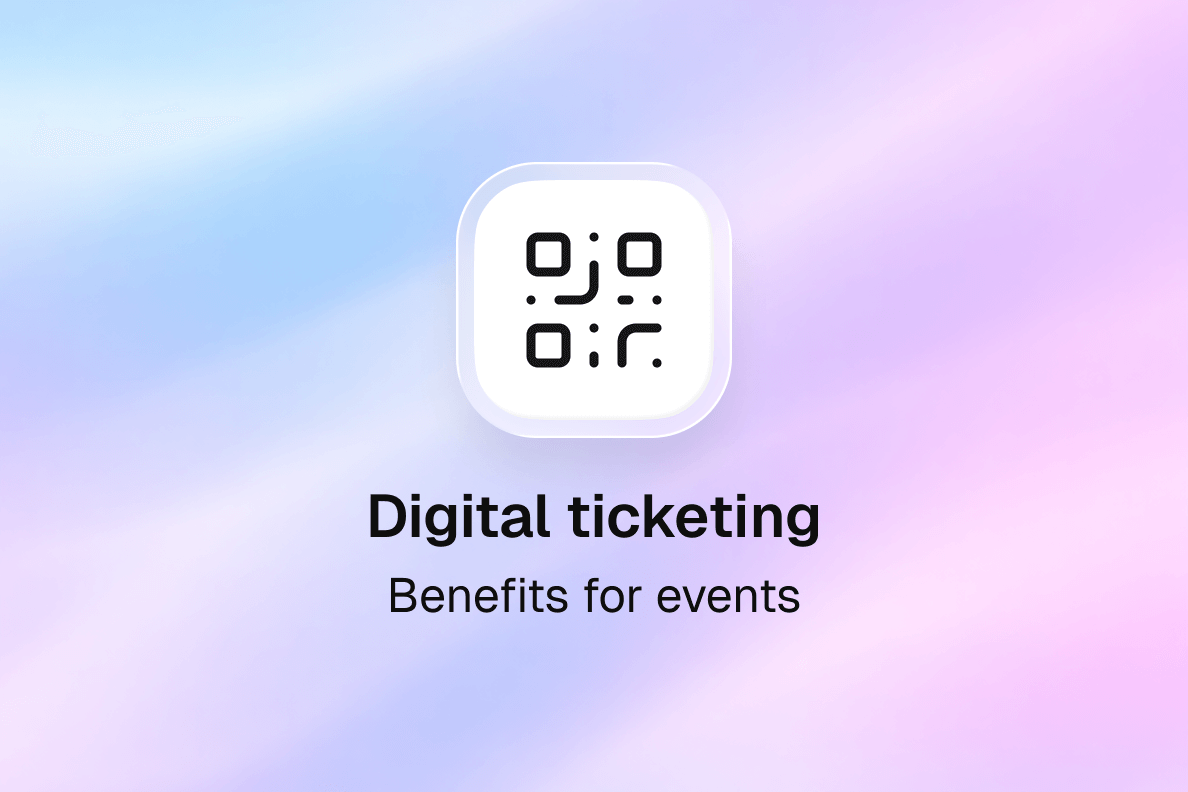
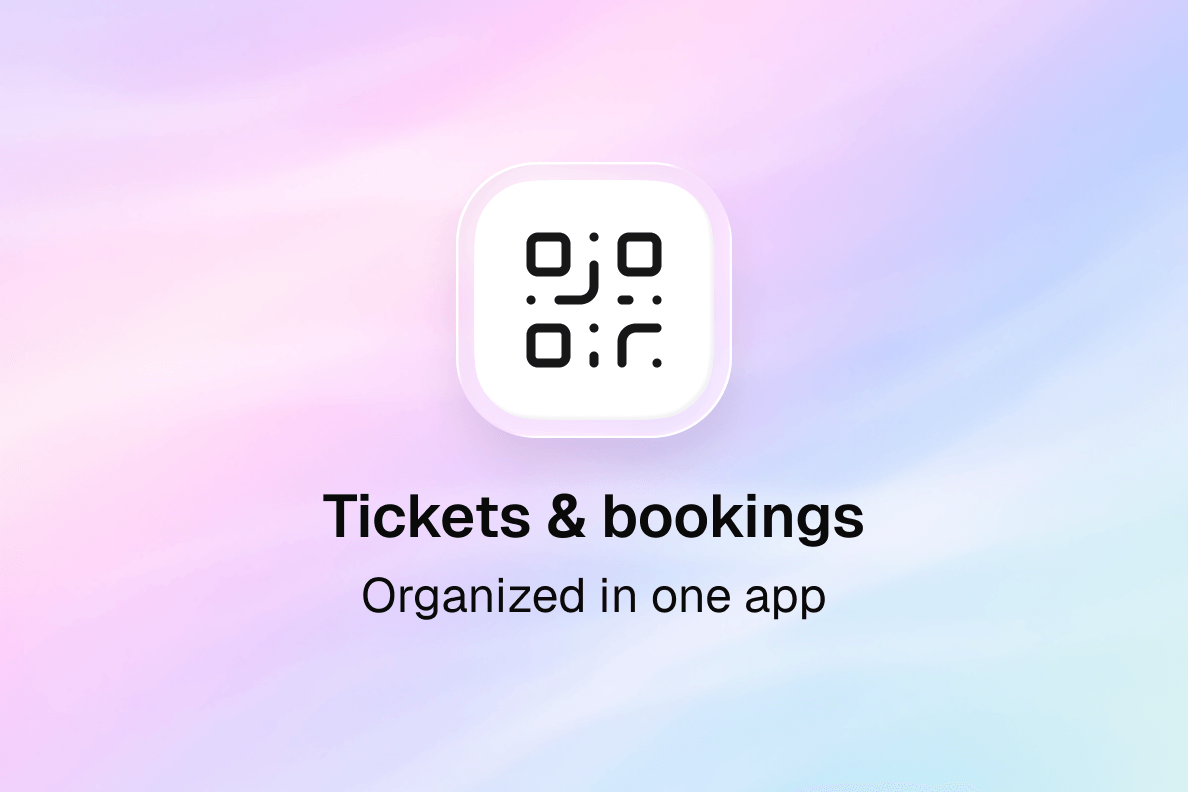
refactor: restructure NFC identity verification article
Rewrote article to be more user-friendly and engaging:

- New title: "How NFC chip scanning verifies your passport in seconds"
- Moved Folio illustration to the beginning (after intro)
- Simplified language, removed technical jargon (BAC, ICAO, certificates)
- Added step-by-step scanning guide with clear instructions
- Focused on user benefits rather than implementation details
- Reduced article length while keeping essential information

New structure:
1. What NFC chip is and why it matters
2. How scanning works in Folio (with illustration)
3. What gets verified
4. Why it's more reliable than photos
5. Which documents have chips

diff --git a/src/pages/NfcIdentityVerificationArticlePage.tsx b/src/pages/NfcIdentityVerificationArticlePage.tsx
@@ -4,134 +4,24 @@ import nfcScanningFlow from '../assets/images/blog-nfc-scanning-flow.png'
 export default function NfcIdentityVerificationArticlePage() {
   return (
     <BlogArticleLayout
-      title="NFC chip reading for secure identity verification"
-      description="Modern passports and ID cards contain NFC chips with encrypted data that's nearly impossible to forge. Learn how NFC identity verification works and why it provides the highest level of document authentication."
+      title="How NFC chip scanning verifies your passport in seconds"
+      description="Your passport has a chip that proves it's genuine. Learn how NFC scanning works, what it verifies, and why it's the most secure way to confirm document authenticity."
       date="Oct 28, 2025"
       category="Product"
       slug="nfc-identity-verification"
     >
       <ArticleParagraph>
-        When you look at a modern passport, you'll notice a small symbol on the cover that looks like a stylized radio wave. This indicates the document contains an <strong>NFC chip</strong>, a tiny electronic component storing encrypted data that provides the strongest available proof of document authenticity.
+        Your passport contains a hidden superpower. Look at the cover: you'll see a small symbol that looks like a radio wave. That symbol means your passport has an NFC chip inside, a tiny electronic component that stores your data and can prove your document is genuine in seconds.
       </ArticleParagraph>
 
       <ArticleParagraph>
-        For identity verification, NFC chip reading represents a significant advancement over visual document inspection. While a skilled forger might create a convincing physical document, replicating the cryptographic data stored in an NFC chip is essentially impossible. This makes NFC-based verification the gold standard for high-security identity checks.
+        Unlike the printed information on your passport, which can theoretically be forged, the data on this chip is protected by digital signatures from your government. No one can fake these signatures. When you scan the chip, you get definitive proof that your passport is real and hasn't been tampered with.
       </ArticleParagraph>
 
-      <ArticleH2>What's stored on an identity document chip</ArticleH2>
+      <ArticleH2>How NFC scanning works in Folio</ArticleH2>
 
       <ArticleParagraph>
-        NFC chips in passports and ID cards contain the same information printed on the document, plus additional data that provides verification capabilities:
-      </ArticleParagraph>
-
-      <ul className="block font-normal leading-6 relative shrink-0 text-[#0a0a0a] text-base w-full space-y-2 pl-6 list-disc">
-        <li><strong>Personal data</strong>: Name, date of birth, nationality, document number, and expiry date.</li>
-        <li><strong>High-resolution photo</strong>: A digital version of the document holder's photo, often at much higher quality than the printed version.</li>
-        <li><strong>Biometric data</strong>: Some documents include fingerprints or iris scans, though access to this data may require additional authorization.</li>
-        <li><strong>Digital signatures</strong>: Cryptographic signatures from the issuing authority that prove the data hasn't been altered.</li>
-        <li><strong>Certificate chains</strong>: The certificates needed to verify those signatures back to a trusted root authority.</li>
-      </ul>
-
-      <ArticleParagraph>
-        The international standard governing passport chips is ICAO Doc 9303, maintained by the International Civil Aviation Organization. This ensures interoperability: a passport chip from any compliant country can be read and verified by systems worldwide.
-      </ArticleParagraph>
-
-      <ArticleH2>How NFC chip reading works</ArticleH2>
-
-      <ArticleParagraph>
-        Reading an NFC chip requires both proximity and authentication. Here's the typical process:
-      </ArticleParagraph>
-
-      <ArticleParagraph>
-        <strong>Physical proximity</strong>: NFC operates over very short distances, typically a few centimeters. The user holds their document against or very close to the reading device, usually a smartphone with NFC capability.
-      </ArticleParagraph>
-
-      <ArticleParagraph>
-        <strong>Basic Access Control (BAC)</strong>: Before the chip releases any data, the reader must prove it has access to information printed on the document: the document number, date of birth, and expiry date. This prevents unauthorized reading of chip data without physical access to the document.
-      </ArticleParagraph>
-
-      <ArticleParagraph>
-        <strong>Secure data transfer</strong>: Once authenticated, data is transferred through an encrypted channel. The reader and chip establish session keys that prevent eavesdropping even if someone intercepts the radio communication.
-      </ArticleParagraph>
-
-      <ArticleParagraph>
-        <strong>Passive Authentication</strong>: The reader verifies digital signatures on the chip data using certificate chains that trace back to the issuing country's signing authority. This confirms the data was created by a legitimate government and hasn't been modified.
-      </ArticleParagraph>
-
-      <ArticleParagraph>
-        <strong>Active Authentication</strong>: Some documents support an additional check where the chip proves it possesses a private key that matches a public key stored in the signed data. This confirms the chip itself is genuine and not a clone.
-      </ArticleParagraph>
-
-      <ArticleH2>Advantages over visual document inspection</ArticleH2>
-
-      <ArticleParagraph>
-        Visual inspection of identity documents has significant limitations that NFC chip reading overcomes:
-      </ArticleParagraph>
-
-      <ArticleParagraph>
-        <strong>Forgery resistance</strong>: Creating a visually convincing fake document is challenging but achievable for sophisticated counterfeiters. Creating a chip with valid cryptographic signatures from a government issuing authority is computationally infeasible.
-      </ArticleParagraph>
-
-      <ArticleParagraph>
-        <strong>Tamper detection</strong>: If someone alters the printed information on a document but can't modify the chip, the mismatch is immediately detectable. The chip data serves as the authoritative record.
-      </ArticleParagraph>
-
-      <ArticleParagraph>
-        <strong>Image quality</strong>: Photos on chips are typically higher resolution than printed photos, enabling more accurate face matching. Printed photos degrade over time and can be affected by document wear.
-      </ArticleParagraph>
-
-      <ArticleParagraph>
-        <strong>Consistent verification</strong>: Visual security features vary by document and require trained inspectors to evaluate. NFC verification follows the same process regardless of issuing country and produces deterministic results.
-      </ArticleParagraph>
-
-      <ArticleH2>Implementation considerations</ArticleH2>
-
-      <ArticleParagraph>
-        While NFC chip reading provides the strongest verification, several factors affect its practical implementation:
-      </ArticleParagraph>
-
-      <ArticleParagraph>
-        <strong>Device compatibility</strong>: Not all smartphones support NFC, and some that do have limitations. iOS devices have supported NFC document reading since iPhone 7, though earlier versions had restrictions. Android support varies by manufacturer and model.
-      </ArticleParagraph>
-
-      <ArticleParagraph>
-        <strong>Document coverage</strong>: Not all identity documents have NFC chips. While most modern passports include chips, many national ID cards and driver's licenses do not. Verification systems need fallback options for non-chip documents.
-      </ArticleParagraph>
-
-      <ArticleParagraph>
-        <strong>User guidance</strong>: NFC reading requires correct positioning of the document against the phone. Different phones have NFC antennas in different locations, and document chip placement varies. Clear instructions help users complete the process successfully.
-      </ArticleParagraph>
-
-      <ArticleParagraph>
-        <strong>Certificate management</strong>: Verifying signatures requires access to country signing certificates. These certificates need regular updates as countries rotate keys and issue new documents.
-      </ArticleParagraph>
-
-      <ArticleH2>When to use NFC verification</ArticleH2>
-
-      <ArticleParagraph>
-        NFC chip reading is particularly valuable for:
-      </ArticleParagraph>
-
-      <ArticleParagraph>
-        <strong>High-value transactions</strong>: Financial services requiring the strongest identity assurance benefit from NFC verification's forgery resistance.
-      </ArticleParagraph>
-
-      <ArticleParagraph>
-        <strong>Regulated industries</strong>: Some compliance frameworks specifically recommend or require chip-based document verification for certain use cases.
-      </ArticleParagraph>
-
-      <ArticleParagraph>
-        <strong>Cross-border verification</strong>: The international standardization of passport chips makes them reliable for verifying documents from any compliant country.
-      </ArticleParagraph>
-
-      <ArticleParagraph>
-        <strong>Fraud-prone scenarios</strong>: Applications with elevated fraud risk justify the additional verification step.
-      </ArticleParagraph>
-
-      <ArticleH2>NFC identity scanning with Folio</ArticleH2>
-
-      <ArticleParagraph>
-        Folio's NFC identity scan extracts and verifies data from chip-enabled passports and ID cards. The system guides users through the scanning process, validates cryptographic signatures against issuing authority certificates, and compares chip data with visually extracted information to detect discrepancies.
+        Folio guides you through the NFC scanning process step by step. Here's what happens:
       </ArticleParagraph>
 
       <ArticleImage
@@ -140,11 +30,81 @@ export default function NfcIdentityVerificationArticlePage() {
       />
 
       <ArticleParagraph>
-        The chip photo can be used for face matching, providing a higher-quality reference image than the printed document photo. Combined with document authentication and liveness detection, NFC scanning creates the most comprehensive identity verification available.
+        <strong>Step 1: Check for the chip symbol</strong>. Look at your passport cover. If you see the NFC symbol (looks like radio waves), your document has a chip that can be scanned.
       </ArticleParagraph>
 
       <ArticleParagraph>
-        As governments continue upgrading identity documents to include NFC chips, this technology will become an increasingly standard part of identity verification. For organizations seeking the highest assurance of document authenticity, NFC chip reading provides capabilities that visual inspection simply cannot match.
+        <strong>Step 2: Position your document</strong>. Place your passport against the back of your phone. The app shows you exactly where to hold it based on your phone model.
+      </ArticleParagraph>
+
+      <ArticleParagraph>
+        <strong>Step 3: Wait for the scan</strong>. Keep the passport still for a few seconds. The app reads the chip, verifies the data, and confirms authenticity. You'll see a success message when it's done.
+      </ArticleParagraph>
+
+      <ArticleParagraph>
+        The whole process takes about 10 seconds. Once complete, Folio has verified that your passport is genuine and extracted your data directly from the chip.
+      </ArticleParagraph>
+
+      <ArticleH2>What gets verified during NFC scanning</ArticleH2>
+
+      <ArticleParagraph>
+        When Folio reads your passport chip, several things happen behind the scenes:
+      </ArticleParagraph>
+
+      <ArticleParagraph>
+        <strong>Government signature check</strong>. The data on your chip is digitally signed by your country's passport authority. Folio verifies this signature against official government certificates. If the signature is valid, the data is genuine and unaltered.
+      </ArticleParagraph>
+
+      <ArticleParagraph>
+        <strong>Data extraction</strong>. The chip contains your name, date of birth, nationality, passport number, and expiry date. This data is read directly from the chip, not from the printed page.
+      </ArticleParagraph>
+
+      <ArticleParagraph>
+        <strong>High-quality photo</strong>. The chip stores a digital version of your passport photo, usually at higher resolution than the printed version. This photo can be used for face matching with better accuracy.
+      </ArticleParagraph>
+
+      <ArticleParagraph>
+        <strong>Consistency check</strong>. If someone altered the printed information on a passport but couldn't change the chip, the mismatch would be detected. The chip data is the authoritative source.
+      </ArticleParagraph>
+
+      <ArticleH2>Why chip scanning is more reliable than photos</ArticleH2>
+
+      <ArticleParagraph>
+        Taking a photo of a passport and scanning its chip are completely different levels of verification:
+      </ArticleParagraph>
+
+      <ArticleParagraph>
+        <strong>Photos can be faked</strong>. A skilled forger can create a convincing-looking passport. They can print fake documents, alter real ones, or create digital images that look authentic. Photo-based verification relies on detecting visual signs of tampering, which isn't always possible.
+      </ArticleParagraph>
+
+      <ArticleParagraph>
+        <strong>Chips cannot be faked</strong>. The digital signatures on passport chips are generated using cryptographic keys that only governments possess. Creating a fake chip with valid signatures would require breaking encryption that's considered mathematically secure. It's not practically possible.
+      </ArticleParagraph>
+
+      <ArticleParagraph>
+        <strong>Better image quality</strong>. The photo stored on the chip is typically much sharper than the printed photo on the passport page. Printed photos fade, scratch, and degrade over time. The chip photo stays pristine.
+      </ArticleParagraph>
+
+      <ArticleParagraph>
+        <strong>Universal verification</strong>. Passport chips follow an international standard used by over 150 countries. A passport from any of these countries can be verified the same way, with the same certainty.
+      </ArticleParagraph>
+
+      <ArticleH2>Which documents have NFC chips</ArticleH2>
+
+      <ArticleParagraph>
+        Most passports issued since 2006 include NFC chips. Look for the chip symbol on your passport cover, a small icon that resembles radio waves or a chip. If you see it, your passport can be scanned.
+      </ArticleParagraph>
+
+      <ArticleParagraph>
+        Some national ID cards also have chips, particularly newer European ID cards issued under eIDAS regulations. However, many driver's licenses and older ID cards don't have chips yet.
+      </ArticleParagraph>
+
+      <ArticleParagraph>
+        If your document doesn't have a chip, Folio can still verify it using photo-based methods. But for documents with chips, NFC scanning provides the highest level of assurance that the document is genuine.
+      </ArticleParagraph>
+
+      <ArticleParagraph>
+        The combination of NFC chip verification with face matching and liveness detection creates the most secure identity verification available today. Your passport chip proves your document is real. Your face proves you're the person on that document.
       </ArticleParagraph>
     </BlogArticleLayout>
   )

diff --git a/src/pages/OrganizeEventTicketsArticlePage.tsx b/src/pages/OrganizeEventTicketsArticlePage.tsx
@@ -1,0 +1,140 @@
+import { BlogArticleLayout, ArticleH2, ArticleParagraph, ArticleImage } from '../components/ui'
+import { Link } from 'react-router-dom'
+import blogOrganizeEventTicketsHero from '../assets/images/blog-organize-event-tickets-hero.png'
+
+export default function OrganizeEventTicketsArticlePage() {
+  return (
+    <BlogArticleLayout
+      title="How to keep all your tickets and bookings in one app"
+      description="Flights, trains, hotels, concerts: stop searching through emails. Keep all your travel tickets and bookings organized in one secure app."
+      date="Sep 2, 2025"
+      category="Research"
+      slug="organize-event-tickets"
+    >
+      <ArticleParagraph>
+        You're at the airport, scrolling through emails trying to find your boarding pass. You land, take a train to the city, and now you're searching for that train ticket PDF. At the hotel, the receptionist asks for your booking confirmation, and it's somewhere in another email thread. That evening you have concert tickets, but which app were those in again?
+      </ArticleParagraph>
+
+      <ArticleParagraph>
+        Every trip involves dozens of tickets and confirmations from different sources. Flights from airlines, trains from rail companies, hotels from booking platforms, events from ticketing services. Each one arrives in a different format, lives in a different app or email folder, and needs to be found at exactly the right moment. This scattered approach makes travel more stressful than it needs to be.
+      </ArticleParagraph>
+
+      <ArticleImage 
+        src={blogOrganizeEventTicketsHero} 
+        alt="Digital tickets in Folio Wallet: train ticket, bus ticket, and event ticket with QR codes"
+      />
+
+      <ArticleH2>Where your tickets and bookings live today</ArticleH2>
+
+      <ArticleParagraph>
+        Think about your last trip. Your tickets and confirmations probably came from all these different places:
+      </ArticleParagraph>
+
+      <ArticleParagraph>
+        <strong>Flight tickets</strong>: Boarding passes arrive via airline apps, email PDFs, or wallet passes. Each airline has its own app, and if you book through a third party, there's another confirmation email to track.
+      </ArticleParagraph>
+
+      <ArticleParagraph>
+        <strong>Train tickets</strong>: Rail operators send PDFs, offer their own apps, or provide QR codes in emails. Cross-border trips often mean different tickets from different rail companies.
+      </ArticleParagraph>
+
+      <ArticleParagraph>
+        <strong>Bus tickets</strong>: FlixBus, BlaBlaCar, Greyhound, and regional operators each have their own booking systems. Some send PDFs, others require their app.
+      </ArticleParagraph>
+
+      <ArticleParagraph>
+        <strong>Hotel bookings</strong>: Booking.com, Airbnb, Hotels.com, Expedia, or direct hotel reservations. Each platform sends confirmation emails in different formats, and you need the booking reference at check-in.
+      </ArticleParagraph>
+
+      <ArticleParagraph>
+        <strong>Event tickets</strong>: Concerts through Ticketmaster, sports games through team apps, theater through venue websites, festivals through their own platforms. Each event lives somewhere different.
+      </ArticleParagraph>
+
+      <ArticleParagraph>
+        <strong>Everything else</strong>: Car rentals, tour bookings, museum tickets, restaurant reservations. The list of confirmations you need to track keeps growing.
+      </ArticleParagraph>
+
+      <ArticleH2>The booking chaos problem</ArticleH2>
+
+      <ArticleParagraph>
+        A simple weekend trip might involve an airline app for your flight, a rail app for the train to the city center, a booking confirmation email for your hotel, and a ticketing app for the concert you're attending. That's four different places to check before you've even started.
+      </ArticleParagraph>
+
+      <ArticleParagraph>
+        Longer trips multiply the problem. A two-week vacation might include multiple flights, several train journeys, a few different hotels, and various activities. Each booking creates another email to save, another app to download, another confirmation number to remember.
+      </ArticleParagraph>
+
+      <ArticleParagraph>
+        Email search becomes your travel assistant, but it fails when you need it most. Standing at a hotel desk with slow airport WiFi, searching for a booking confirmation while the receptionist waits. Trying to find a train ticket while the departure time approaches. Looking for concert tickets in a venue with no cell reception.
+      </ArticleParagraph>
+
+      <ArticleParagraph>
+        The bigger issue is visibility. There's no single view of your entire trip. You can't see all your bookings in one timeline. You can't quickly check what's happening tomorrow or confirm your departure times without opening multiple apps.
+      </ArticleParagraph>
+
+      <ArticleH2>Why you need all bookings in one place</ArticleH2>
+
+      <ArticleParagraph>
+        Having every ticket and confirmation in a single app transforms how you travel:
+      </ArticleParagraph>
+
+      <ArticleParagraph>
+        <strong>Instant access everywhere</strong>: At the airport gate, the train platform, the hotel desk, or the venue entrance, you open one app and find what you need immediately. No searching, no switching between apps.
+      </ArticleParagraph>
+
+      <ArticleParagraph>
+        <strong>See your entire trip at a glance</strong>: A single timeline shows everything: flights, transfers, hotels, activities. You know exactly what's coming up and when.
+      </ArticleParagraph>
+
+      <ArticleParagraph>
+        <strong>Offline access when it matters</strong>: Airplane mode, foreign roaming, crowded venues with overloaded networks. Your tickets work without internet because they're stored locally on your device.
+      </ArticleParagraph>
+
+      <ArticleParagraph>
+        <strong>Share travel plans easily</strong>: Traveling with others? Share your itinerary or specific bookings without forwarding email chains or explaining which app to download.
+      </ArticleParagraph>
+
+      <ArticleParagraph>
+        <strong>Never miss a connection</strong>: When all your bookings are visible together, you spot conflicts and tight connections before they become problems.
+      </ArticleParagraph>
+
+      <ArticleH2>Keeping everything in Folio</ArticleH2>
+
+      <ArticleParagraph>
+        <Link to="/#get-the-app" className="underline hover:text-[#737373] transition-colors">Folio Wallet</Link> works as a universal home for all your tickets and bookings, regardless of where they came from. Here's how to get everything into one place:
+      </ArticleParagraph>
+
+      <ArticleParagraph>
+        <strong>Import from PDF</strong>: Most tickets and confirmations arrive as PDF attachments. Open them in Folio, and the app extracts the key information: dates, times, confirmation numbers, and barcodes. The original PDF stays attached.
+      </ArticleParagraph>
+
+      <ArticleParagraph>
+        <strong>Capture from images</strong>: Screenshot a QR code or booking confirmation? Import it from your photo library. Folio extracts the relevant details so you don't have to scroll through thousands of photos later.
+      </ArticleParagraph>
+
+      <ArticleParagraph>
+        <strong>Forward confirmation emails</strong>: Some bookings are just emails with confirmation codes. Forward them to Folio, and the app pulls out the booking information automatically.
+      </ArticleParagraph>
+
+      <ArticleParagraph>
+        <strong>Direct issuance</strong>: Airlines, rail operators, hotels, and event organizers can issue tickets directly to Folio. The booking appears in your wallet instantly after purchase.
+      </ArticleParagraph>
+
+      <ArticleParagraph>
+        Once everything is in Folio, your bookings are organized by date. You see your flight, then your train, then your hotel, then your evening plans, all in chronological order. Tap any booking to see full details, scan codes, or access the original confirmation.
+      </ArticleParagraph>
+
+      <ArticleParagraph>
+        Everything syncs across your devices. Check your itinerary on your phone, review details on your tablet, access confirmations from anywhere. And it all works offline: your boarding passes, train tickets, hotel confirmations, and event tickets display instantly even without internet.
+      </ArticleParagraph>
+
+      <ArticleParagraph>
+        Flights, trains, buses, hotels, concerts, conferences: they all end up in the same place. One app for every ticket and booking, accessible whenever you need it, working even when you're offline.
+      </ArticleParagraph>
+
+      <ArticleParagraph>
+        Stop searching through emails at airport gates and hotel desks. Keep all your travel organized in one secure app, and focus on enjoying the trip instead of managing the paperwork.
+      </ArticleParagraph>
+    </BlogArticleLayout>
+  )
+}

diff --git a/src/data/blogArticles.ts b/src/data/blogArticles.ts
@@ -517,8 +517,8 @@ export const blogArticles: BlogArticle[] = sortArticlesByDate([
   {
     category: 'Product',
     date: 'Oct 28, 2025',
-    title: 'NFC chip reading for secure identity verification',
-    description: "Modern passports and ID cards contain NFC chips with encrypted data that's nearly impossible to forge. Learn how NFC identity verification works and why it provides the highest level of document authentication.",
+    title: 'How NFC chip scanning verifies your passport in seconds',
+    description: "Your passport has a chip that proves it's genuine. Learn how NFC scanning works, what it verifies, and why it's the most secure way to confirm document authenticity.",
     slug: 'nfc-identity-verification',
     image: blogNfcIdentityVerification,
   },
